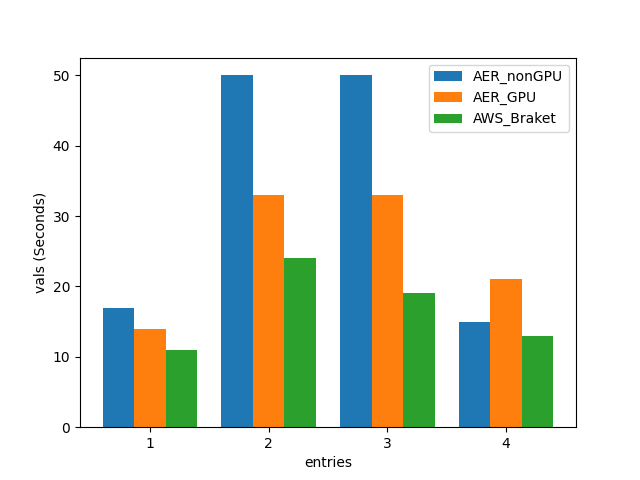
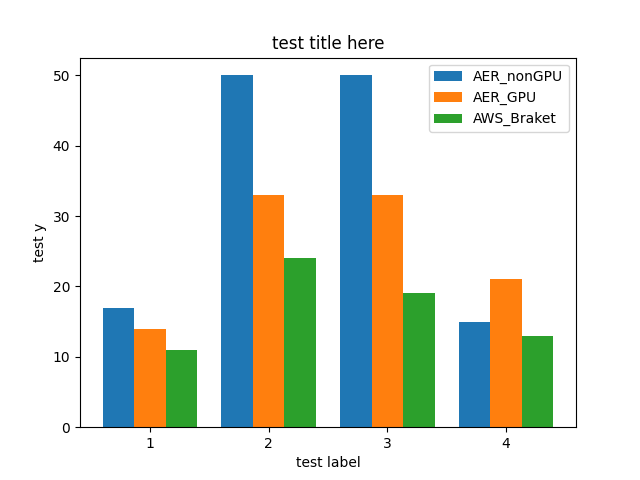
feat: Add options for chart title, x-axis label, and y-axis label

Changed region(s): [[0.0312, 0.4062, 0.0938, 0.5938], [0.4062, 0.0625, 0.5938, 0.125], [0.4688, 0.9375, 0.5625, 1.0]]

diff --git a/graph/bar/main.py b/graph/bar/main.py
@@ -3,8 +3,13 @@ import numpy as np
 import sys
 
 
-def plot(data_path="data.json", name="chart.png"):
+def plot(data_path="data.json", name="chart.png", **kwargs):
+    xlabel = kwargs.get("xlabel", "entries")
+    ylabel = kwargs.get("ylabel", "vals (Seconds)")
+    title = kwargs.get("title")
+
     data = []
+
     try:
         with open(data_path, "r") as f:
             data = eval(f.read())
@@ -25,8 +30,10 @@ def plot(data_path="data.json", name="chart.png"):
         values = [entry[key] for entry in data]
         ax.bar(x + i * width, values, width, label=key)
 
-    ax.set_xlabel("entries")
-    ax.set_ylabel("vals (Seconds)")
+    ax.set_xlabel(xlabel)
+    ax.set_ylabel(ylabel)
+    if title:
+        ax.set_title(title)
     ax.set_xticks(x + width * (totalk - 1) / 2)
     ax.set_xticklabels([f"{i+1}" for i in range(entries)])
     ax.legend()
@@ -38,5 +45,8 @@ def plot(data_path="data.json", name="chart.png"):
 args = sys.argv[1:]
 path = args[args.index("--path") + 1] if "--path" in args else "data.json"
 filename = args[args.index("--filename") + 1] if "--filename" in args else "chart.png"
+xlabel = args[args.index("--xlabel") + 1] if "--xlabel" in args else "entries"
+ylabel = args[args.index("--ylabel") + 1] if "--ylabel" in args else "vals (Seconds)"
+title = args[args.index("--title") + 1] if "--title" in args else None
 
-plot(path, filename)
+plot(path, filename, xlabel=xlabel, ylabel=ylabel, title=title)

diff --git a/README.md b/README.md
@@ -23,11 +23,14 @@ A script to generate a bar chart from data stored in a JSON file.
 
 * `--path`: Path to the JSON file containing data. (Default: `data.json`)
 * `--filename`: Name of the output file. (Default: `chart.png`)
+* `--title`: Title of the chart. (Default: `Chart`)
+* `--xlabel`: Label for the x-axis. (Default: `entries`)
+* `--ylabel`: Label for the y-axis. (Default: `vals (Seconds)`)
 
 **Commands:**
 ```bash
 cd graph/bar
-python main.py [--path {path to JSON file}] [--filename {name of the output file}]
+python main.py [--path {path to JSON file}] [--filename {name of the output file}] [--title {title of the chart}] [--xlabel {label for x-axis}] [--ylabel {label for y-axis}]
 ```
 
 **Files:**
